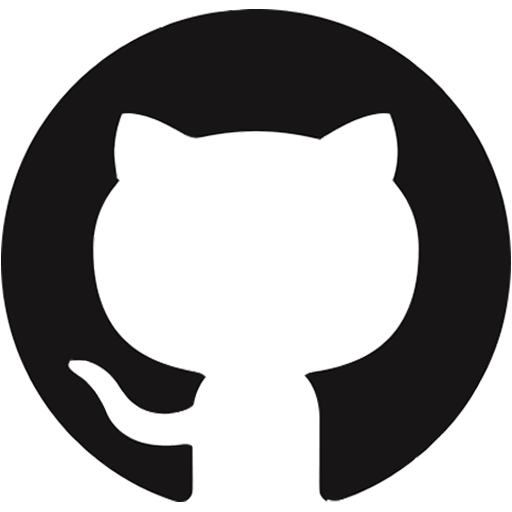
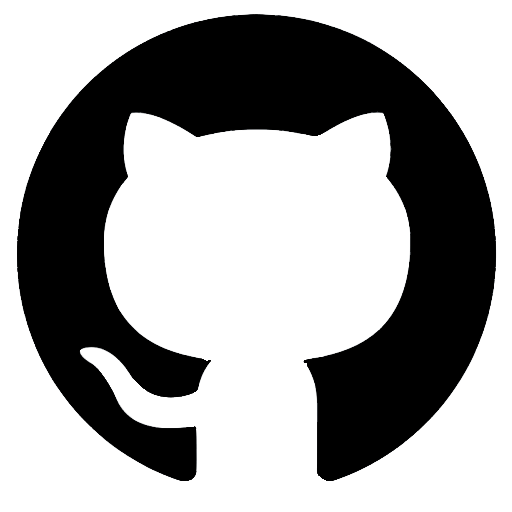
styling optimization in contacts page

diff --git a/about.html b/about.html
@@ -41,22 +41,20 @@
             </ul>
         </div>
     </nav>
-    <div class="container">
-        <div class="row">
-            <div class="col-md-6">
-                <img src="images/portfolio_avatar.png" id="portrait" alt="avatar">
-            </div>
-            <div class="col-md-6">
-                <div class="info">
-                    <h1>Hi there</h1>
-                    <p><span>I am Doniyor</span> and I am student at INHA University in Tashkent. I am Mobile Developer,
-                        who is stick to Flutter, Firebase and Python.</p>
-                    <a href="bio.html" class="btn btn-outline-primary">Read Bio</a>
-                </div>
-            </div>
-
+    <div class="main">
+        <div>
+            <img src="images/portfolio_avatar.png" id="portrait" alt="avatar">
+        </div>
+        <div class="info">
+            <h1>Hi there</h1>
+            <p><span>I am Doniyor</span> and I am student at INHA University in Tashkent. I am Mobile Developer,
+                who is stick to Flutter, Firebase and Python.</p>
+        </div>
+        <div>
+            <a id="bio" href="bio.html" class="btn btn-outline-primary">Read Bio</a>
         </div>
     </div>
+
 </body>
 
 </html>

diff --git a/styles/about.css b/styles/about.css
@@ -14,20 +14,28 @@ body {
     margin-top: 50px;
 }
 
-.info {
-    height: 100%;
-    display: flex;
-    flex-direction: column;
-    justify-content: center;
-    align-items: center;
-}
-
 h1 {
     font-family: 'Lato', sans-serif;
+    text-align: center;
 }
 
 p {
     font-family: 'Ubuntu', sans-serif;
     font-size: 20px;
     text-align: center;
+}
+
+#bio {
+    width: 144px;
+}
+
+.main {
+    display: flex;
+    flex-direction: column;
+    justify-content: center;
+    align-items: center;
+}
+
+.main > div {
+    margin: 20px;
 }

diff --git a/styles/contacts.css b/styles/contacts.css
@@ -41,7 +41,7 @@ td {
 
 .social-net img {
     display: block;
-    height: 50px;
+    height: 100px;
     border-radius: 50%;
     background-color: black;
 }
